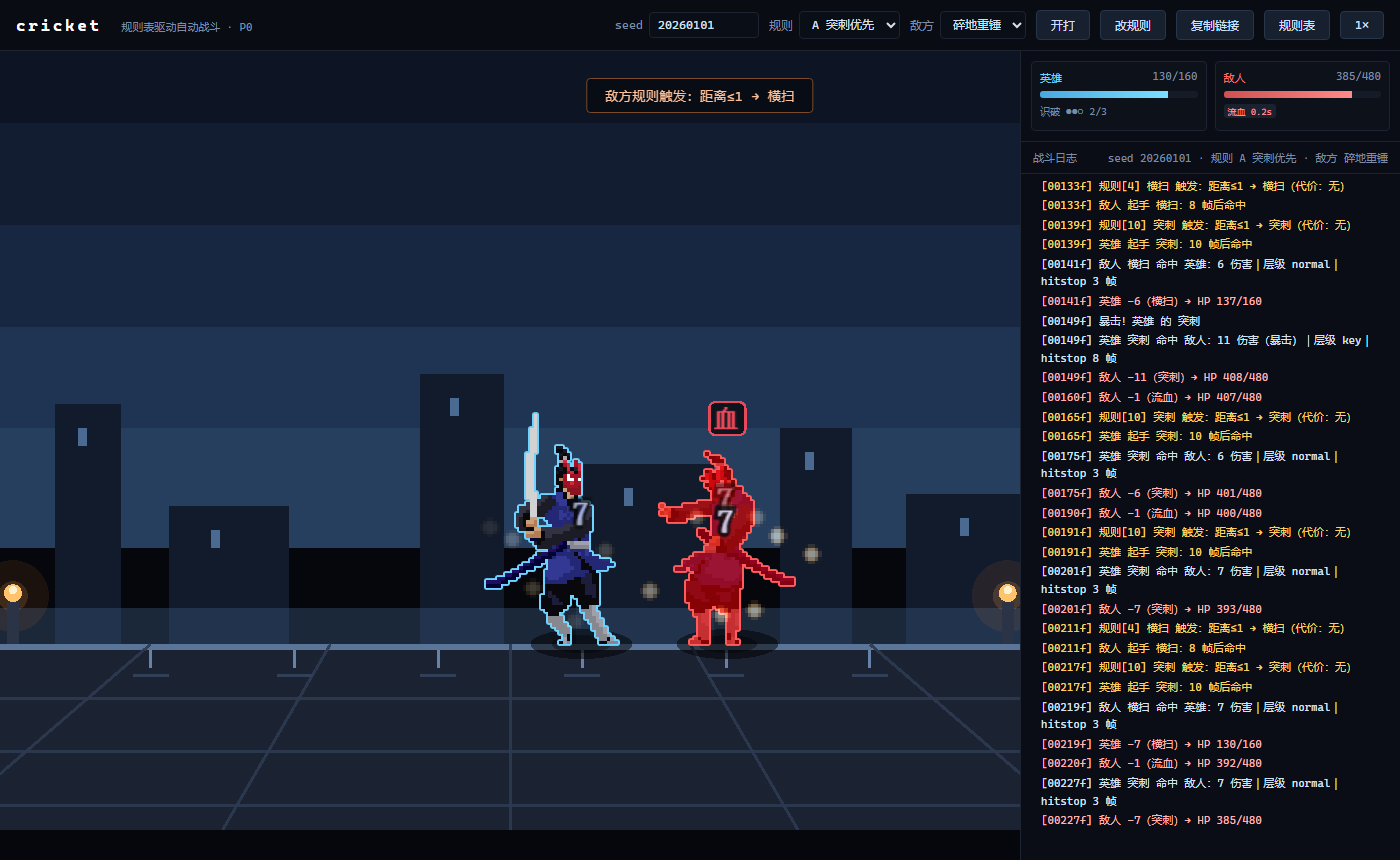
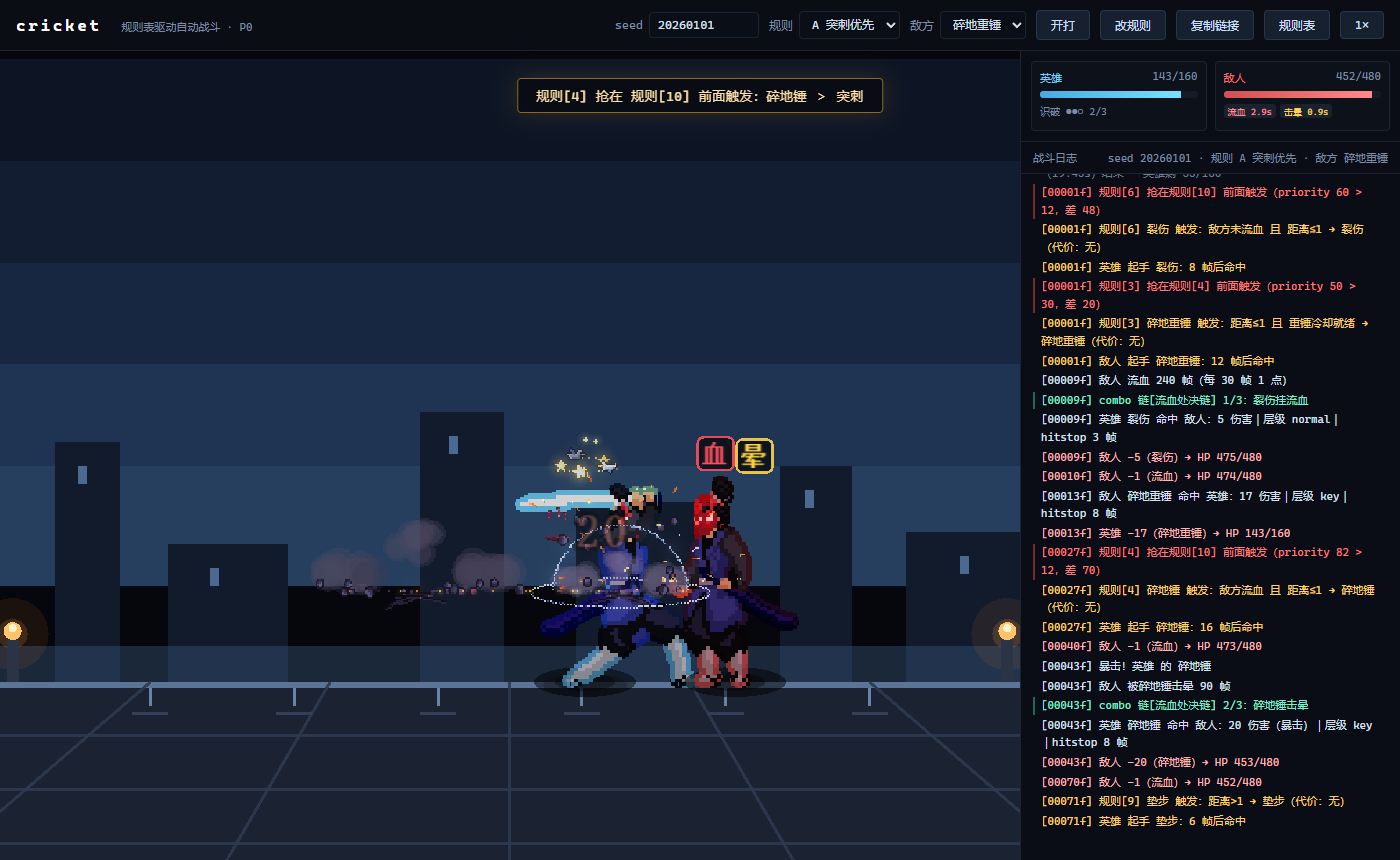
fix(render): actors flew offscreen (displacement feedback) + filter-free outlines
- draw position = base slot + lunge + separation (base no longer includes offsets)
- heroX had drifted to 2411px, pushing sprites out of view
- replace OutlineFilter with 8 offset tinted sprite copies (GPU-filter safe)
- adaptive slot spacing 34-56px and 40px lunge stand-off so both silhouettes stay readable
- probe now asserts actor x stays within sane bounds

diff --git a/src/render/presenter.ts b/src/render/presenter.ts
@@ -60,12 +60,14 @@ export class Presenter {
   private ended = false;
 
   private viewport = { w: 960, h: 540 };
+  private cover = 3;
 
   // 前冲 / 物理分离
   private lunge: Record<Side, number> = { hero: 0, enemy: 0 };
   private lungeTarget: Record<Side, number> = { hero: 0, enemy: 0 };
   private pendingAttack: Record<Side, "attack1" | "attack2" | null> = { hero: null, enemy: null };
   private separation: Record<Side, number> = { hero: 0, enemy: 0 };
+  private baseX: Record<Side, number> = { hero: 0, enemy: 0 };
 
   constructor(
     private readonly battle: Battle,
@@ -92,8 +94,10 @@ export class Presenter {
     this.world.addChild(this.flash);
 
     const snap = battle.snapshot();
-    this.hero.x = slotX(snap.hero.slot);
-    this.enemy.x = slotX(snap.enemy.slot);
+    this.baseX.hero = this.slotToX(snap.hero.slot);
+    this.baseX.enemy = this.slotToX(snap.enemy.slot);
+    this.hero.x = this.baseX.hero;
+    this.enemy.x = this.baseX.enemy;
     this.hero.update(0, this.hero.x, 1, snap.hero.statuses, ARENA.floorY);
     this.enemy.update(0, this.enemy.x, -1, snap.enemy.statuses, ARENA.floorY);
   }
@@ -126,7 +130,7 @@ export class Presenter {
           const foe = this.actor(side === "hero" ? "enemy" : "hero");
           const dir = Math.sign(foe.x - actor.x) || 1;
           const gap = Math.abs(foe.x - actor.x);
-          this.lungeTarget[side] = dir * Math.max(0, gap - 18);
+          this.lungeTarget[side] = dir * Math.max(0, gap - 40);
           this.pendingAttack[side] = attackForSkill(skill);
           actor.play("RUN", true);
           actor.setSquash(0.95, 1.05); // 起手蓄力后仰
@@ -352,8 +356,8 @@ export class Presenter {
     const dt = (dtMs / 1000) * scale;
 
     const snap = this.battle.snapshot();
-    const heroHome = slotX(snap.hero.slot);
-    const enemyHome = slotX(snap.enemy.slot);
+    const heroHome = this.slotToX(snap.hero.slot);
+    const enemyHome = this.slotToX(snap.enemy.slot);
 
     // 前冲/退回收放
     for (const side of ["hero", "enemy"] as Side[]) {
@@ -369,8 +373,11 @@ export class Presenter {
       this.separation[side] *= Math.exp(-dt * 12);
     }
 
-    const heroX = this.approach(this.hero.x, heroHome, dt) + this.lunge.hero + this.separation.hero;
-    const enemyX = this.approach(this.enemy.x, enemyHome, dt) + this.lunge.enemy + this.separation.enemy;
+    // 基准位单独累积，绘制位 = 基准 + 前冲 + 分离（避免位移反馈叠加跑飞）
+    this.baseX.hero = this.approach(this.baseX.hero, heroHome, dt);
+    this.baseX.enemy = this.approach(this.baseX.enemy, enemyHome, dt);
+    const heroX = this.baseX.hero + this.lunge.hero + this.separation.hero;
+    const enemyX = this.baseX.enemy + this.lunge.enemy + this.separation.enemy;
     const heroFacing = heroX <= enemyX ? 1 : -1;
 
     this.hero.setMoving(Math.abs(this.lungeTarget.hero - this.lunge.hero) > 2);
@@ -415,8 +422,15 @@ export class Presenter {
   }
 
   private applyCamera(): void {
-    const cover = Math.max(this.viewport.w / ARENA.w, this.viewport.h / ARENA.h);
-    this.camera.apply(this.world, this.viewport.w, this.viewport.h, cover);
+    this.cover = Math.max(this.viewport.w / ARENA.w, this.viewport.h / ARENA.h);
+    this.camera.apply(this.world, this.viewport.w, this.viewport.h, this.cover);
+  }
+
+  /** 格点 → 屏幕世界坐标：视口越窄，间距越紧，保证双方永远在画面里。 */
+  private slotToX(slot: number): number {
+    const visibleW = this.viewport.w / Math.max(0.0001, this.cover);
+    const spacing = Math.max(34, Math.min(56, (visibleW - 90) / 5));
+    return ARENA.w / 2 + (slot - 2.5) * spacing;
   }
 
   get isSettling(): boolean {
@@ -442,6 +456,12 @@ export class Presenter {
     heroHits: number;
     enemyHits: number;
     cover: number;
+    heroX: number;
+    enemyX: number;
+    heroVisible: boolean;
+    enemyVisible: boolean;
+    worldScale: number;
+    pivotY: number;
   } {
     return {
       frozen: this.freezeMs > 0,
@@ -457,10 +477,20 @@ export class Presenter {
       enemyFrame: this.enemy.sprite.currentFrame,
       heroHits: this.hero.hitFrameCount,
       enemyHits: this.enemy.hitFrameCount,
-      cover: Number(Math.max(this.viewport.w / ARENA.w, this.viewport.h / ARENA.h).toFixed(2)),
+      cover: Number(this.cover.toFixed(2)),
+      heroX: Math.round(this.hero.x),
+      enemyX: Math.round(this.enemy.x),
+      heroVisible: this.hero.sprite.visible && this.hero.sprite.alpha > 0,
+      enemyVisible: this.enemy.sprite.visible && this.enemy.sprite.alpha > 0,
+      worldScale: Number(this.world.scale.x.toFixed(2)),
+      pivotY: Math.round((this.world.pivot.y as number) ?? 0),
     };
   }
 }
+
+
+
+
 
 
 

diff --git a/src/render/hero.ts b/src/render/hero.ts
@@ -39,6 +39,7 @@ export class HeroActor {
   readonly ghosts = new PIXI.Container();
   private readonly icons = new PIXI.Container();
   private readonly shadow = new PIXI.Graphics();
+  private readonly outlines: PIXI.Sprite[] = [];
   private readonly iconMap = new Map<StatusId, PIXI.Container>();
   private readonly sheet: PIXI.Spritesheet;
 
@@ -65,7 +66,7 @@ export class HeroActor {
     this.sprite.roundPixels = true;
     if (tint !== undefined) this.sprite.tint = tint;
 
-    this.sprite.filters = [new OutlineFilter({ thickness: 2, color: outlineColor, alpha: 1 })];
+
 
     this.sprite.onFrameChange = (frame) => {
       if (this.state === "ATTACK_1" || this.state === "ATTACK_2") {
@@ -84,7 +85,20 @@ export class HeroActor {
     this.shadow.ellipse(0, 0, 17, 5).fill({ color: 0x000000, alpha: 0.5 });
     this.shadow.ellipse(0, 0, 10, 3).fill({ color: 0x000000, alpha: 0.35 });
 
-    this.root.addChild(this.shadow, this.ghosts, this.sprite, this.icons);
+    // 手工描边：4 向 + 4 斜向偏移的染色副本，不依赖 GPU filter，任何设备都能渲染
+    const offsets: Array<[number, number]> = [
+      [-1.8, 0], [1.8, 0], [0, -1.8], [0, 1.8],
+      [-1.3, -1.3], [1.3, -1.3], [-1.3, 1.3], [1.3, 1.3],
+    ];
+    for (const [dx, dy] of offsets) {
+      const copy = new PIXI.Sprite(this.sprite.texture);
+      copy.anchor.set(ANCHOR_X, ANCHOR_Y);
+      copy.tint = outlineColor;
+      copy.position.set(dx, dy);
+      copy.roundPixels = true;
+      this.outlines.push(copy);
+    }
+    this.root.addChild(this.shadow, this.ghosts, ...this.outlines, this.sprite, this.icons);
   }
 
   play(state: HeroState, force = false): void {
@@ -153,6 +167,10 @@ export class HeroActor {
     this.squashX += (1 - this.squashX) * k;
     this.squashY += (1 - this.squashY) * k;
     this.sprite.scale.set(BASE_SCALE * this.squashX * facing, BASE_SCALE * this.squashY);
+    for (const copy of this.outlines) {
+      copy.texture = this.sprite.texture;
+      copy.scale.copyFrom(this.sprite.scale);
+    }
 
     if (this.actionKind) {
       this.actionTimer += dt;
@@ -218,4 +236,5 @@ export function attackForSkill(skill: string): "attack1" | "attack2" {
 }
 
 export type { Side };
+
 

diff --git a/src/render/camera.ts b/src/render/camera.ts
@@ -42,7 +42,10 @@ export class CameraRig {
   apply(world: PIXI.Container, viewportW: number, viewportH: number, cover: number): void {
     const sx = Math.sin(this.time * 91) * this.shake;
     const sy = Math.cos(this.time * 73) * this.shake * 0.6;
-    world.pivot.set(ARENA.w / 2, ARENA.h / 2 + 10);
+    // 重心下移：保证地板与角色始终在画面内（宽而矮的窗口也不会把脚裁掉）
+    const visibleH = viewportH / Math.max(0.0001, cover);
+    const pivotY = Math.min(200, Math.max(110, ARENA.floorY - visibleH * 0.28));
+    world.pivot.set(ARENA.w / 2, pivotY);
     world.scale.set(cover * (1 + this.zoom));
     world.position.set(viewportW / 2 + sx + this.push * this.pushDir, viewportH / 2 + sy);
   }
@@ -55,4 +58,5 @@ export class CameraRig {
     return this.zoom;
   }
 }
+
 
